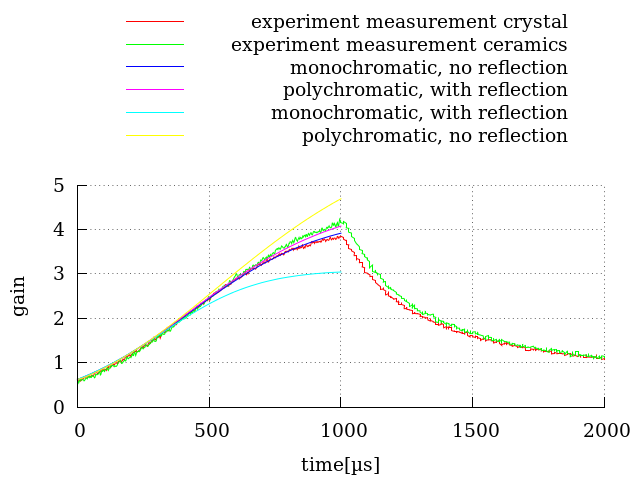
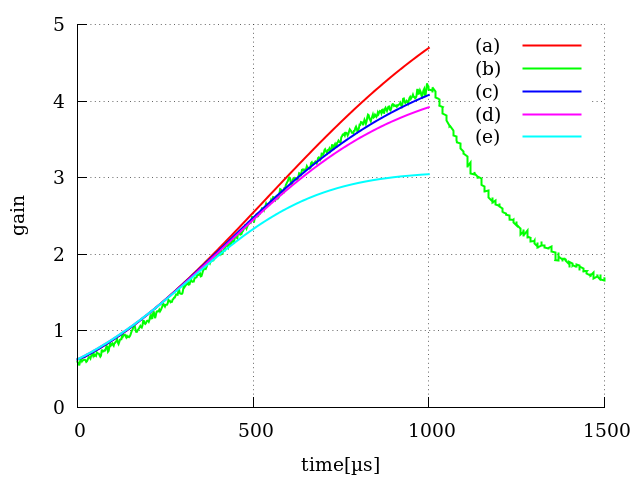
benchmark reallocated key

diff --git a/paper/results.tex b/paper/results.tex
@@ -82,7 +82,12 @@ discrete and just connected with lines to guide to eye.
 \begin{figure}[H]
   \centerline{
     \resizebox{0.5\textwidth}{!}{\includegraphics{plot/benchmark.png}}}
-  \caption{gain development in 50 timessteps}
+  \caption{Simulation compared to measurements:
+    (a) polychromatic, no reflections
+    (b) experimental measurement
+    (c) polychromatic, with reflections
+    (d) monochromatic, no reflections
+    (e) monochromatic, with reflections}
   \label{plot:benchmark}
 \end{figure}
 \textbf{TODO} measured values missing in benchmark plot\\
